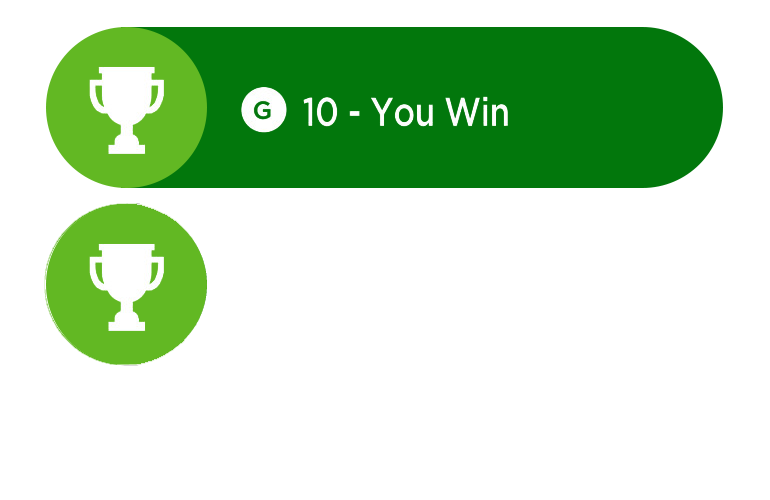
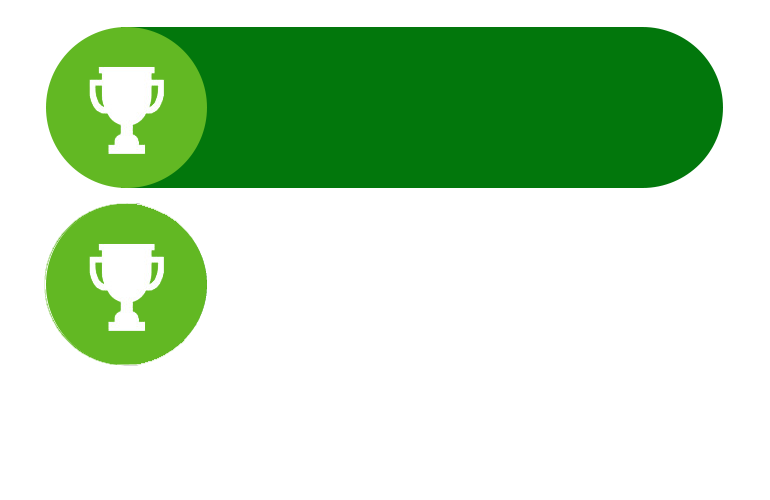
Achievement text

Changed region(s): [[0.3117, 0.18, 0.6857, 0.27]]

diff --git a/Tutorial/Achievement.js b/Tutorial/Achievement.js
@@ -1,15 +1,17 @@
 /**
  * @author brendanhorlick1997@gmail.com (Brendan Horlick)
- * date: 08/11/2017
+ * date: 31/10/2018
  */
 var index = 0;
 var imageX = 1100;
 var imageWidth = 164;
 var frameCount = 0;
+var opacity = 0;
 class Achievement
 {
-  constructor()
+  constructor(achievementText)
   {
+    this.textString = achievementText;
     this.img = new Image();   // Create new img element
     this.img.id = "person";
     this.loaded = false;
@@ -33,31 +35,41 @@ class Achievement
   drawImage() {
     var ctx = document.getElementById("mycanvas").getContext("2d");
     //var image = this.img;
-    frameCount = frameCount + 1;
-    ctx.clearRect(0,0,1600,1600);
     if (this.loaded === true)
     {
       // draw the image
 
       if(imageX > 600)
       {
-      ctx.drawImage(this.img,42,202,imageWidth,162,imageX,700,imageWidth,162);
-      imageX = imageX - 20;
+        ctx.drawImage(this.img,42,202,imageWidth,162,imageX,700,imageWidth,162);
+        imageX = imageX - 20;
       }
       else
       {
-      ctx.drawImage(this.img,42,26,imageWidth,162,imageX,700,imageWidth,162);
-      imageWidth = imageWidth + 5;
+        ctx.drawImage(this.img,42,26,imageWidth,162,imageX,700,imageWidth,162);
+        if(imageWidth < 700)
+          {
+            imageWidth = imageWidth + 10;
+          }
+      }
+      if (imageWidth > 699)
+      {
+        ctx.font = "40px Comic Sans MS";
+        var colorString = "rgba(255,255,255,"+opacity+")";
+        ctx.fillStyle = colorString;
+        ctx.textAlign = "center";
+        ctx.fillText(this.textString, imageX + 400, 700 + 100);
+        if(opacity < 1)
+        {
+          opacity += 0.01;
+        }
+
       }
 
       //ctx.drawImage(this.img, 200, 0, 89, 143, 0, 0, 500, 200);
       // context.drawImage(img,sx,sy,swidth,sheight,x,y,width,height)
     }
-    if(index > 500)
-    {
-      index = 0;
-    }
-    index = index + 1;
+
 
 
 }

diff --git a/Tutorial/Game.js b/Tutorial/Game.js
@@ -9,8 +9,7 @@ class Game
 {
   constructor()
   {
-    this.achievement = new Achievement();
-
+    this.achievement = new Achievement("Tutorial Complete");
   }
   init()
   {
@@ -22,6 +21,8 @@ class Game
 
   draw()
   {
+    var ctx = document.getElementById("mycanvas").getContext("2d");
+    ctx.clearRect(0,0,1800,1800);
     this.achievement.drawImage();
   }
 
